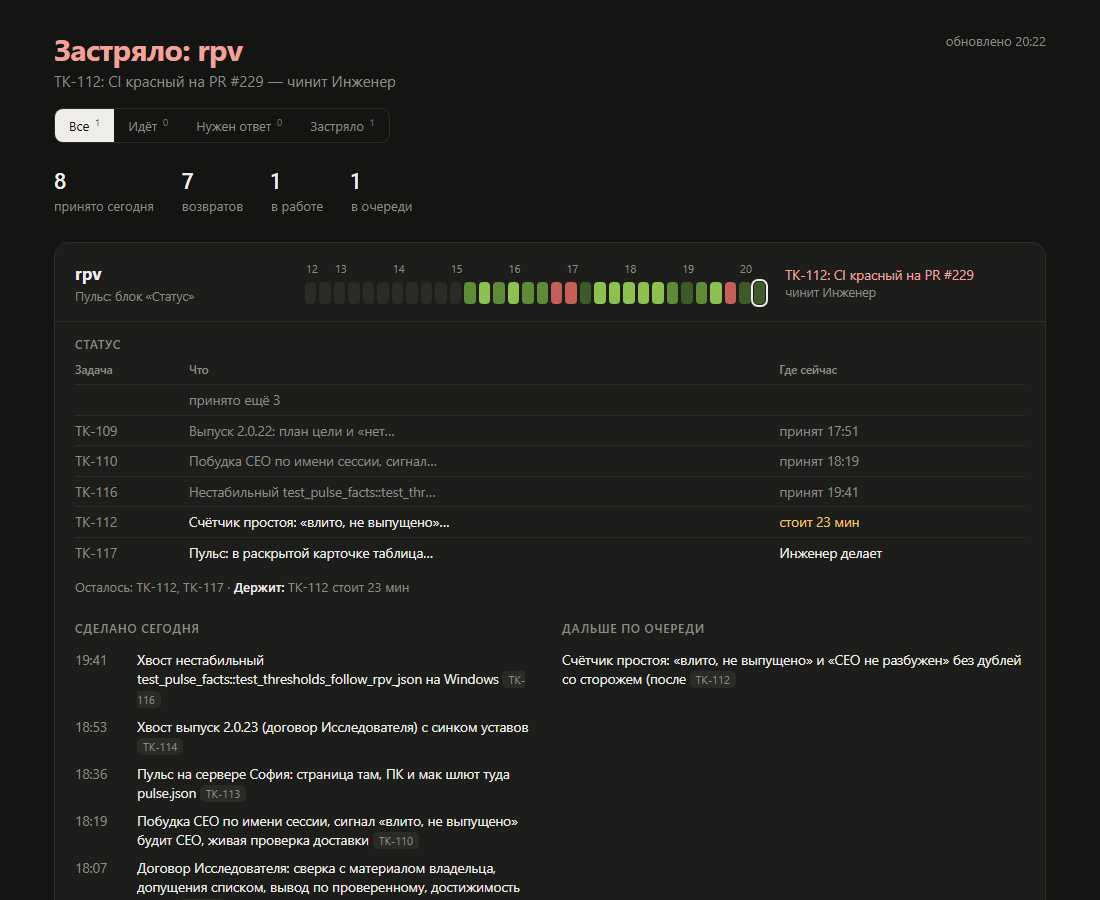
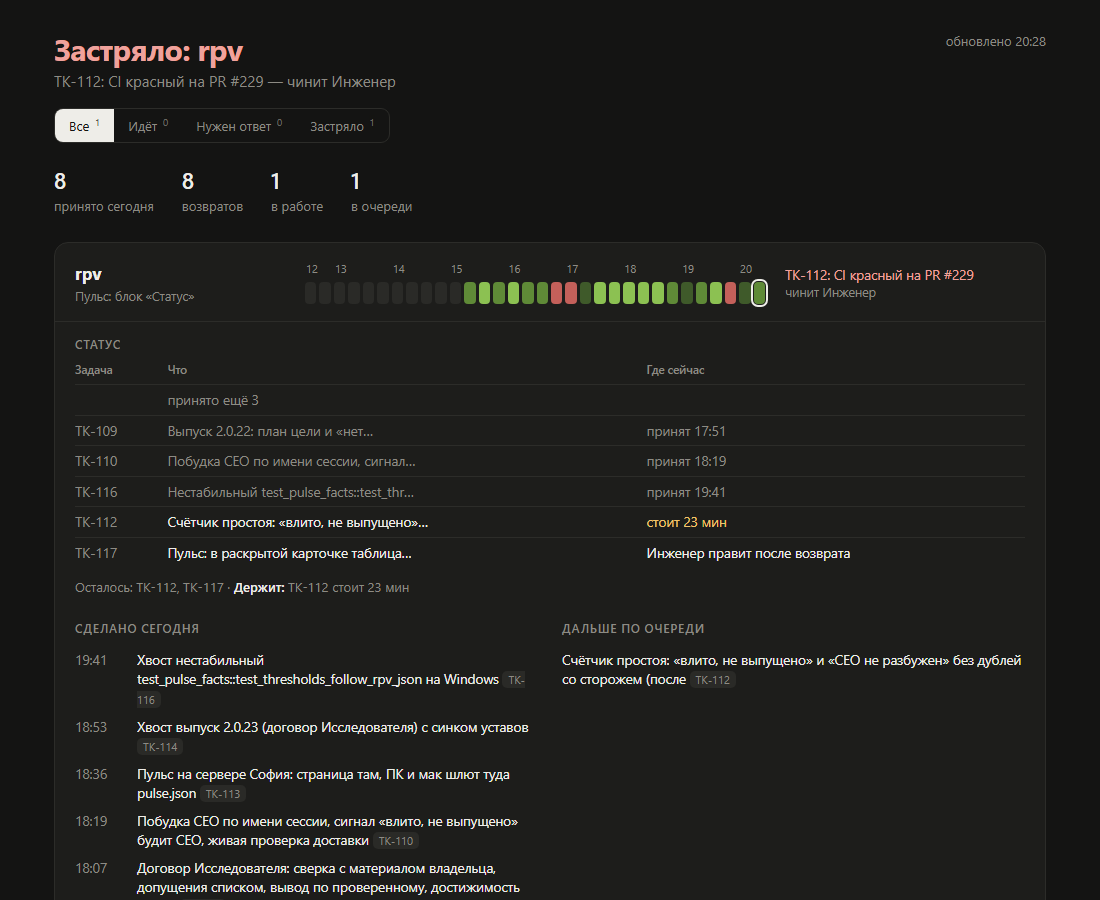
TK-117: «ждёт TK-N» по порядку плана, blocked — «ждёт CEO», не «у Судьи»

diff --git a/.claude/dispatcher/pulse_facts.py b/.claude/dispatcher/pulse_facts.py
@@ -250,7 +250,7 @@ def _waits_on(tkt) -> str:
 def _live_phrase(tkt, role: str) -> str:
     """Кто сейчас держит живой тикет, до пяти слов: «у Судьи» · «в очереди» · «Инженер правит после возврата» · «Инженер делает»."""
     role = (role or str(tkt.owner)).strip().lower()
-    if role == "judge" or tkt.status in ("in_review", "blocked"):
+    if role == "judge" or tkt.status == "in_review":
         return "у Судьи"
     if tkt.status == "todo" and role == tkt.owner:
         return "в очереди"
@@ -261,9 +261,20 @@ def _live_phrase(tkt, role: str) -> str:
     return f"{name} делает" if name else "в работе"
 
 
-def _where(tkt, state: dict, owner_ids: set, stuck_text: str, runs: list, now: datetime) -> tuple:
-    """(отметка, «Где сейчас», уровень, минут без движения): принят чч:мм · ждёт вашего ответа · ждёт TK-N · стоит N мин (жёлтое/красное от
-    порогов TK-108; очередь и ожидание не «стоят») · кто держит. Отметка — из PLAN_MARKS страницы: done / ask / next / stuck / run."""
+def _blockers(plan: list) -> dict:
+    """{тикет шага: тикет ближайшего предыдущего не принятого шага} — «ждёт TK-N» по порядку плана (номер шага `n`); шаг без тикета пропущен."""
+    out, prev = {}, ""
+    for row in sorted((r for r in plan if r["n"] and r["mark"] != "done" and r.get("ticket")), key=lambda r: r["n"]):
+        if prev:
+            out[row["ticket"]] = prev
+        prev = row["ticket"]
+    return out
+
+
+def _where(tkt, state: dict, owner_ids: set, stuck_text: str, runs: list, now: datetime, after: str = "") -> tuple:
+    """(отметка, «Где сейчас», уровень, минут без движения): принят чч:мм · ждёт вашего ответа · ждёт CEO (blocked) · ждёт TK-N (wait_for, а
+    в очереди — предыдущий шаг плана `after`) · стоит N мин (жёлтое/красное от порогов TK-108; очередь и ожидание не «стоят») · кто держит.
+    Отметка — из PLAN_MARKS страницы: done / ask / next / stuck / run."""
     if tkt.status == "done":
         at = _accepted_text(_accepted_at(tkt, now), now)
         return "done", f"принят {at}" if at else "принят", "", None
@@ -271,13 +282,17 @@ def _where(tkt, state: dict, owner_ids: set, stuck_text: str, runs: list, now: d
         return "ask", "ждёт вашего ответа", "", None
     named = bool(re.search(rf"\b{re.escape(tkt.id)}\b", stuck_text))
     minutes, level = _idle(tkt, runs, state, now)
+    if tkt.status == "blocked":
+        return "stuck", "ждёт CEO", level, minutes
     if tkt.status == "waiting" and not named:
         return "next", _waits_on(tkt), "", None
     if named or (level and tkt.status != "todo"):
         return "stuck" if named else "run", f"стоит {ago(minutes * 60)}" if minutes is not None else "застряло", level or "bad", minutes
     running = (state.get("active_runs") or {}).get(tkt.id) or {}
     phrase = _live_phrase(tkt, str(running.get("role") or ""))
-    return ("next" if phrase == "в очереди" else "run"), phrase, "", minutes
+    if phrase == "в очереди":
+        return "next", f"ждёт {after}" if after else phrase, "", minutes
+    return "run", phrase, "", minutes
 
 
 def _hold(ask: dict | None, fix: dict | None, rows: list) -> str:
@@ -305,9 +320,9 @@ def status_of(gid: str, tickets, state: dict, active: list, owner_items: list, r
     own = sorted((t for t in tickets if t.status != "stopped" and (_of_goal(t, gid) if gid else t.status in T.OPEN_STATUSES)), key=lambda t: t.id)
     done, live = [t for t in own if t.status == "done"], [t for t in own if t.status != "done"]
     owner_ids, stuck_text = {t for t, _ in owner_items}, " ".join(d for _, d, _ in active)
-    rows = []
+    rows, blockers = [], _blockers(plan)
     for tkt in done[-DONE_SHOWN:] + live[:LIST_MAX]:
-        mark, where, level, minutes = _where(tkt, state, owner_ids, stuck_text, runs, now)
+        mark, where, level, minutes = _where(tkt, state, owner_ids, stuck_text, runs, now, blockers.get(tkt.id, ""))
         row = {"ticket": tkt.id, "title": short(str(tkt.header.get("title") or tkt.id)), "mark": mark, "where": where}
         rows.append(({**row, "level": level} if level else row, minutes))
     out = {"rows": [r for r, _ in rows], "more": max(0, len(done) - DONE_SHOWN), "left": _left(plan, [{"ticket": t.id} for t in live]),

diff --git a/.claude/dispatcher/test_pulse_facts.py b/.claude/dispatcher/test_pulse_facts.py
@@ -18,6 +18,14 @@ class FactsBase(GoalSandbox):
     def log(self, tid, author, text, at=None):
         T.append_log(self.tickets_dir / f"{tid}.md", author, text, now=at or self.now)
 
+    def plan_goal(self, n=3, gid="G-001"):
+        path = Path(self.root.name) / ".claude" / "goals" / f"{gid}.md"
+        steps = "\n".join(f"{i}. engineer | Заголовок {i} | готово {i}" for i in range(1, n + 1))
+        path.write_text(path.read_text(encoding="utf-8") + f"\n## План шагов\n{steps}\n", encoding="utf-8")
+
+    def step(self, n, total=3, **kw):
+        return self.ticket(desc=f"Шаг {n} из {total} цели G-001.", **kw)
+
 
 class AgoTests(unittest.TestCase):
     def test_human_durations(self):
@@ -66,14 +74,6 @@ class GoalCardTests(FactsBase):
 
 class PlanTests(FactsBase):
     """TK-108 (В-53): план цели по шагам, движение у текущего шага, числа «шаг N из M» из того же списка."""
-
-    def plan_goal(self, n=3, gid="G-001"):
-        path = Path(self.root.name) / ".claude" / "goals" / f"{gid}.md"
-        steps = "\n".join(f"{i}. engineer | Заголовок {i} | готово {i}" for i in range(1, n + 1))
-        path.write_text(path.read_text(encoding="utf-8") + f"\n## План шагов\n{steps}\n", encoding="utf-8")
-
-    def step(self, n, total=3, **kw):
-        return self.ticket(desc=f"Шаг {n} из {total} цели G-001.", **kw)
 
     def plan(self, state=None, active=(), owner=(), runs=(), at=None):
         return F.plan_of("G-001", self.read(), state or {}, list(active), list(owner), list(runs), at or self.now)
@@ -245,6 +245,28 @@ class StatusTests(FactsBase):
                for title, spec in (("ждёт", "ticket:TK-005"), ("слияние", "merged:o/r#5"), ("файл", "file:/tmp/x"))]
         self.assertEqual(self.where(at=self.now + timedelta(hours=2)), [(ids[0], "ждёт TK-005", "next", ""), (ids[1], "ждёт слияния", "next", ""),
                                                                        (ids[2], "ждёт результата", "next", "")], "ожидание не «стоит»")
+
+    def test_queued_step_waits_on_nearest_unaccepted_step_before_it(self):
+        self.plan_goal()
+        first = self.step(1, status="done", accepted_at=self.now)
+        second = self.step(2, status="in_progress")
+        third = self.step(3, status="todo")
+        state = {"active_runs": {second: {"role": "engineer", "started": T.now_iso(self.now)}}}
+        plan = F.plan_of("G-001", self.read(), state, [], [], [], self.now)
+        self.assertEqual(self.where(state=state, plan=plan), [(first, "принят 12:00", "done", ""), (second, "Инженер делает", "run", ""),
+                                                              (third, f"ждёт {second}", "next", "")])
+
+    def test_first_unaccepted_step_in_queue_does_not_wait(self):
+        self.plan_goal()
+        self.step(1, status="done", accepted_at=self.now)
+        second, third = self.step(2, status="todo"), self.step(3, status="todo")
+        plan = F.plan_of("G-001", self.read(), {}, [], [], [], self.now)
+        self.assertEqual([r[:2] for r in self.where(plan=plan)][1:], [(second, "в очереди"), (third, f"ждёт {second}")])
+
+    def test_blocked_is_not_with_the_judge(self):
+        blocked, review = self.ticket(status="blocked"), self.ticket(status="in_review", owner="judge")
+        self.log(blocked, "engineer", "заметка", self.now - timedelta(minutes=40))
+        self.assertEqual(self.where(), [(blocked, "ждёт CEO", "stuck", "bad"), (review, "у Судьи", "run", "")])
 
     def test_asks_owner(self):
         tid = self.ticket(status="needs_owner")

diff --git a/docs/pulse.md b/docs/pulse.md
@@ -15,7 +15,7 @@
 | `cells` | 96 клеток по 15 минут: `{i, n, c, why?}` — номер, число завершённых запусков ролей (`runs.log`, `on_met` не в счёт), класс, код причины для `stuck` |
 | `goal`, `job`, `ask`, `fix` | версия 2 (TK-105, `pulse_facts.py`): `goal` `{id,title,step?,steps?}` — открытая цель владельца активного тикета, шаг — по строке «Шаг N из M цели G-NNN.»; `job` `{role,who,verb,ticket,title,since}` — самый давний идущий запуск; `ask` `{ticket,question,since?}` — вопрос владельцу; `fix` `{text,who}` — причина «застряло» по-человечески и кто чинит. Нет источника — поля нет |
 | `plan` | версия 2 (TK-108, В-53): план текущей цели по шагам `[{mark, n, title, ticket?, who?, at?, idle?, level?, waiting?}]`. `mark`: `done` ✓ принят (`at` — время приёмки: «19:03» · «вчера» · «07.11»), `run` ◐ идёт (`who` — роль по-русски), `ask` ? ждёт слова владельца (`waiting` — сколько), `stuck` ! застряло (причина называет тикет или все тикеты шага остановлены), `next` ○ впереди. `idle` — сколько без движения: позже из последней записи лога тикета, последнего запуска роли (`runs.log`) и начала идущего запуска; `level` — `""` · `warn` (от `pulse_move_warn_min` = 15 мин) · `bad` (от `pulse_move_bad_min` = 30 мин). Шаги — `goal --step` (`registry.goal_steps`), тикет шага — по строке «Шаг N из M цели G-NNN.»; у цели нет плана — открытые тикеты цели тем же списком (`n` = 0, до 12). «Шаг N из M» и полоска цели — из этого же списка (N — первый непринятый шаг, все приняты — последний). Нет цели или плана — поля нет |
-| `status` | версия 2 (TK-117, В-57): блок «Статус» раскрытой карточки `{rows, more, left, hold}`. `rows` — тикеты текущей цели (нет цели — открытые тикеты проекта, до 12) `[{ticket, title, mark, where, level?}]`: `title` — заголовок до 40 знаков без «Хвост TK-N:», `mark` (`done` · `run` · `ask` · `stuck` · `next`) — как у `plan`, `where` — «Где сейчас» кодом: «принят чч:мм» · «Инженер делает» · «Инженер правит после возврата» · «у Судьи» · «в очереди» · «ждёт TK-N» (из `wait_for`; «ждёт слияния» · «ждёт CI» · «ждёт результата») · «ждёт вашего ответа» · «стоит N мин»; `level` — `warn` (от `pulse_move_warn_min`) · `bad` (от `pulse_move_bad_min`; у названного причиной «застряло» всегда). Принятых показано последние 3, остальные — число в `more`. `left` — «Осталось»: непринятые шаги плана (до 4, коротко, «и ещё N»), плана нет — номера открытых тикетов. `hold` — «Держит»: одна причина — вопрос владельцу › застряло › самый долгий без движения (от порога жёлтого); пусто — «Держит» не показывается. Нет тикетов и «Осталось» — поля нет |
+| `status` | версия 2 (TK-117, В-57): блок «Статус» раскрытой карточки `{rows, more, left, hold}`. `rows` — тикеты текущей цели (нет цели — открытые тикеты проекта, до 12) `[{ticket, title, mark, where, level?}]`: `title` — заголовок до 40 знаков без «Хвост TK-N:», `mark` (`done` · `run` · `ask` · `stuck` · `next`) — как у `plan`, `where` — «Где сейчас» кодом: «принят чч:мм» · «Инженер делает» · «Инженер правит после возврата» · «у Судьи» · «в очереди» · «ждёт TK-N» (у тикета в очереди — предыдущий не принятый шаг плана по номеру `n`; у ожидающего — из `wait_for`, там же «ждёт слияния» · «ждёт CI» · «ждёт результата») · «ждёт CEO» (`blocked`) · «ждёт вашего ответа» · «стоит N мин»; `level` — `warn` (от `pulse_move_warn_min`) · `bad` (от `pulse_move_bad_min`; у названного причиной «застряло» всегда). Принятых показано последние 3, остальные — число в `more`. `left` — «Осталось»: непринятые шаги плана (до 4, коротко, «и ещё N»), плана нет — номера открытых тикетов. `hold` — «Держит»: одна причина — вопрос владельцу › застряло › самый долгий без движения (от порога жёлтого); пусто — «Держит» не показывается. Нет тикетов и «Осталось» — поля нет |
 | `done_today`, `queue`, `day` | версия 2: принятое Судьёй сегодня `[{time,ticket,title}]`, открытые тикеты без идущего запуска `[{ticket,title}]` (до 12), итоги `{accepted,returns,working,queued}` |
 
 ## Класс клетки
